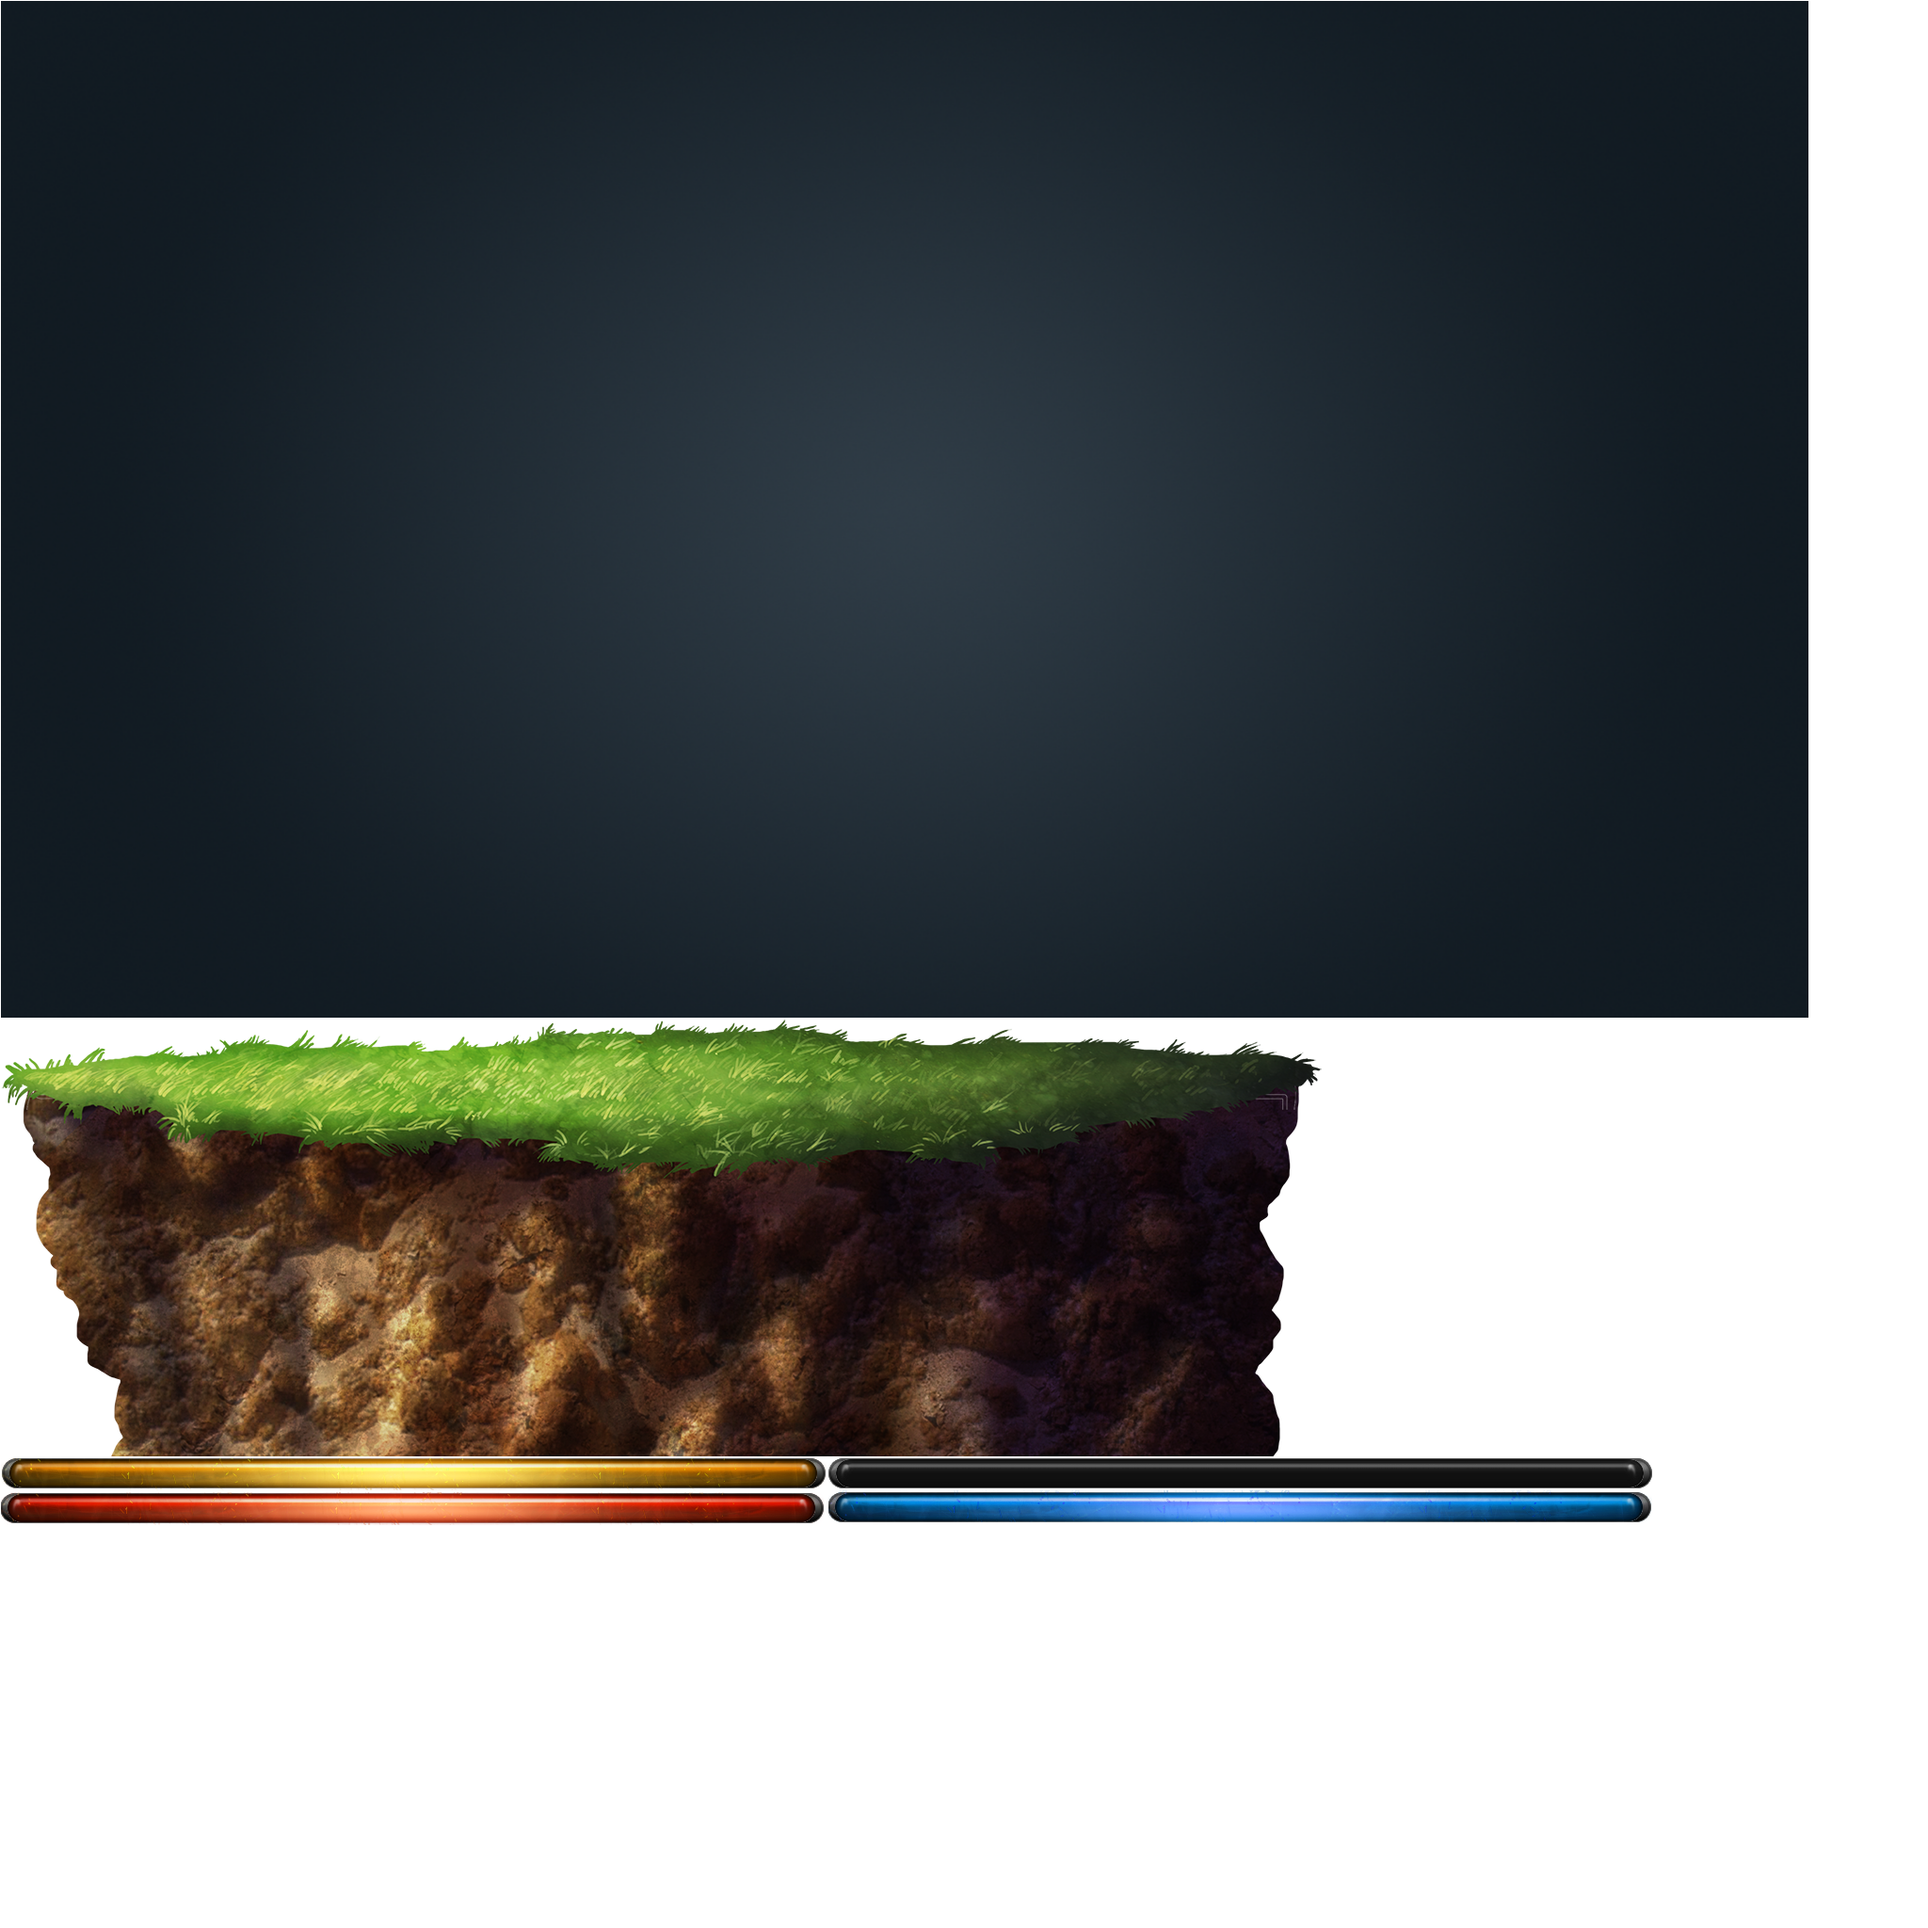
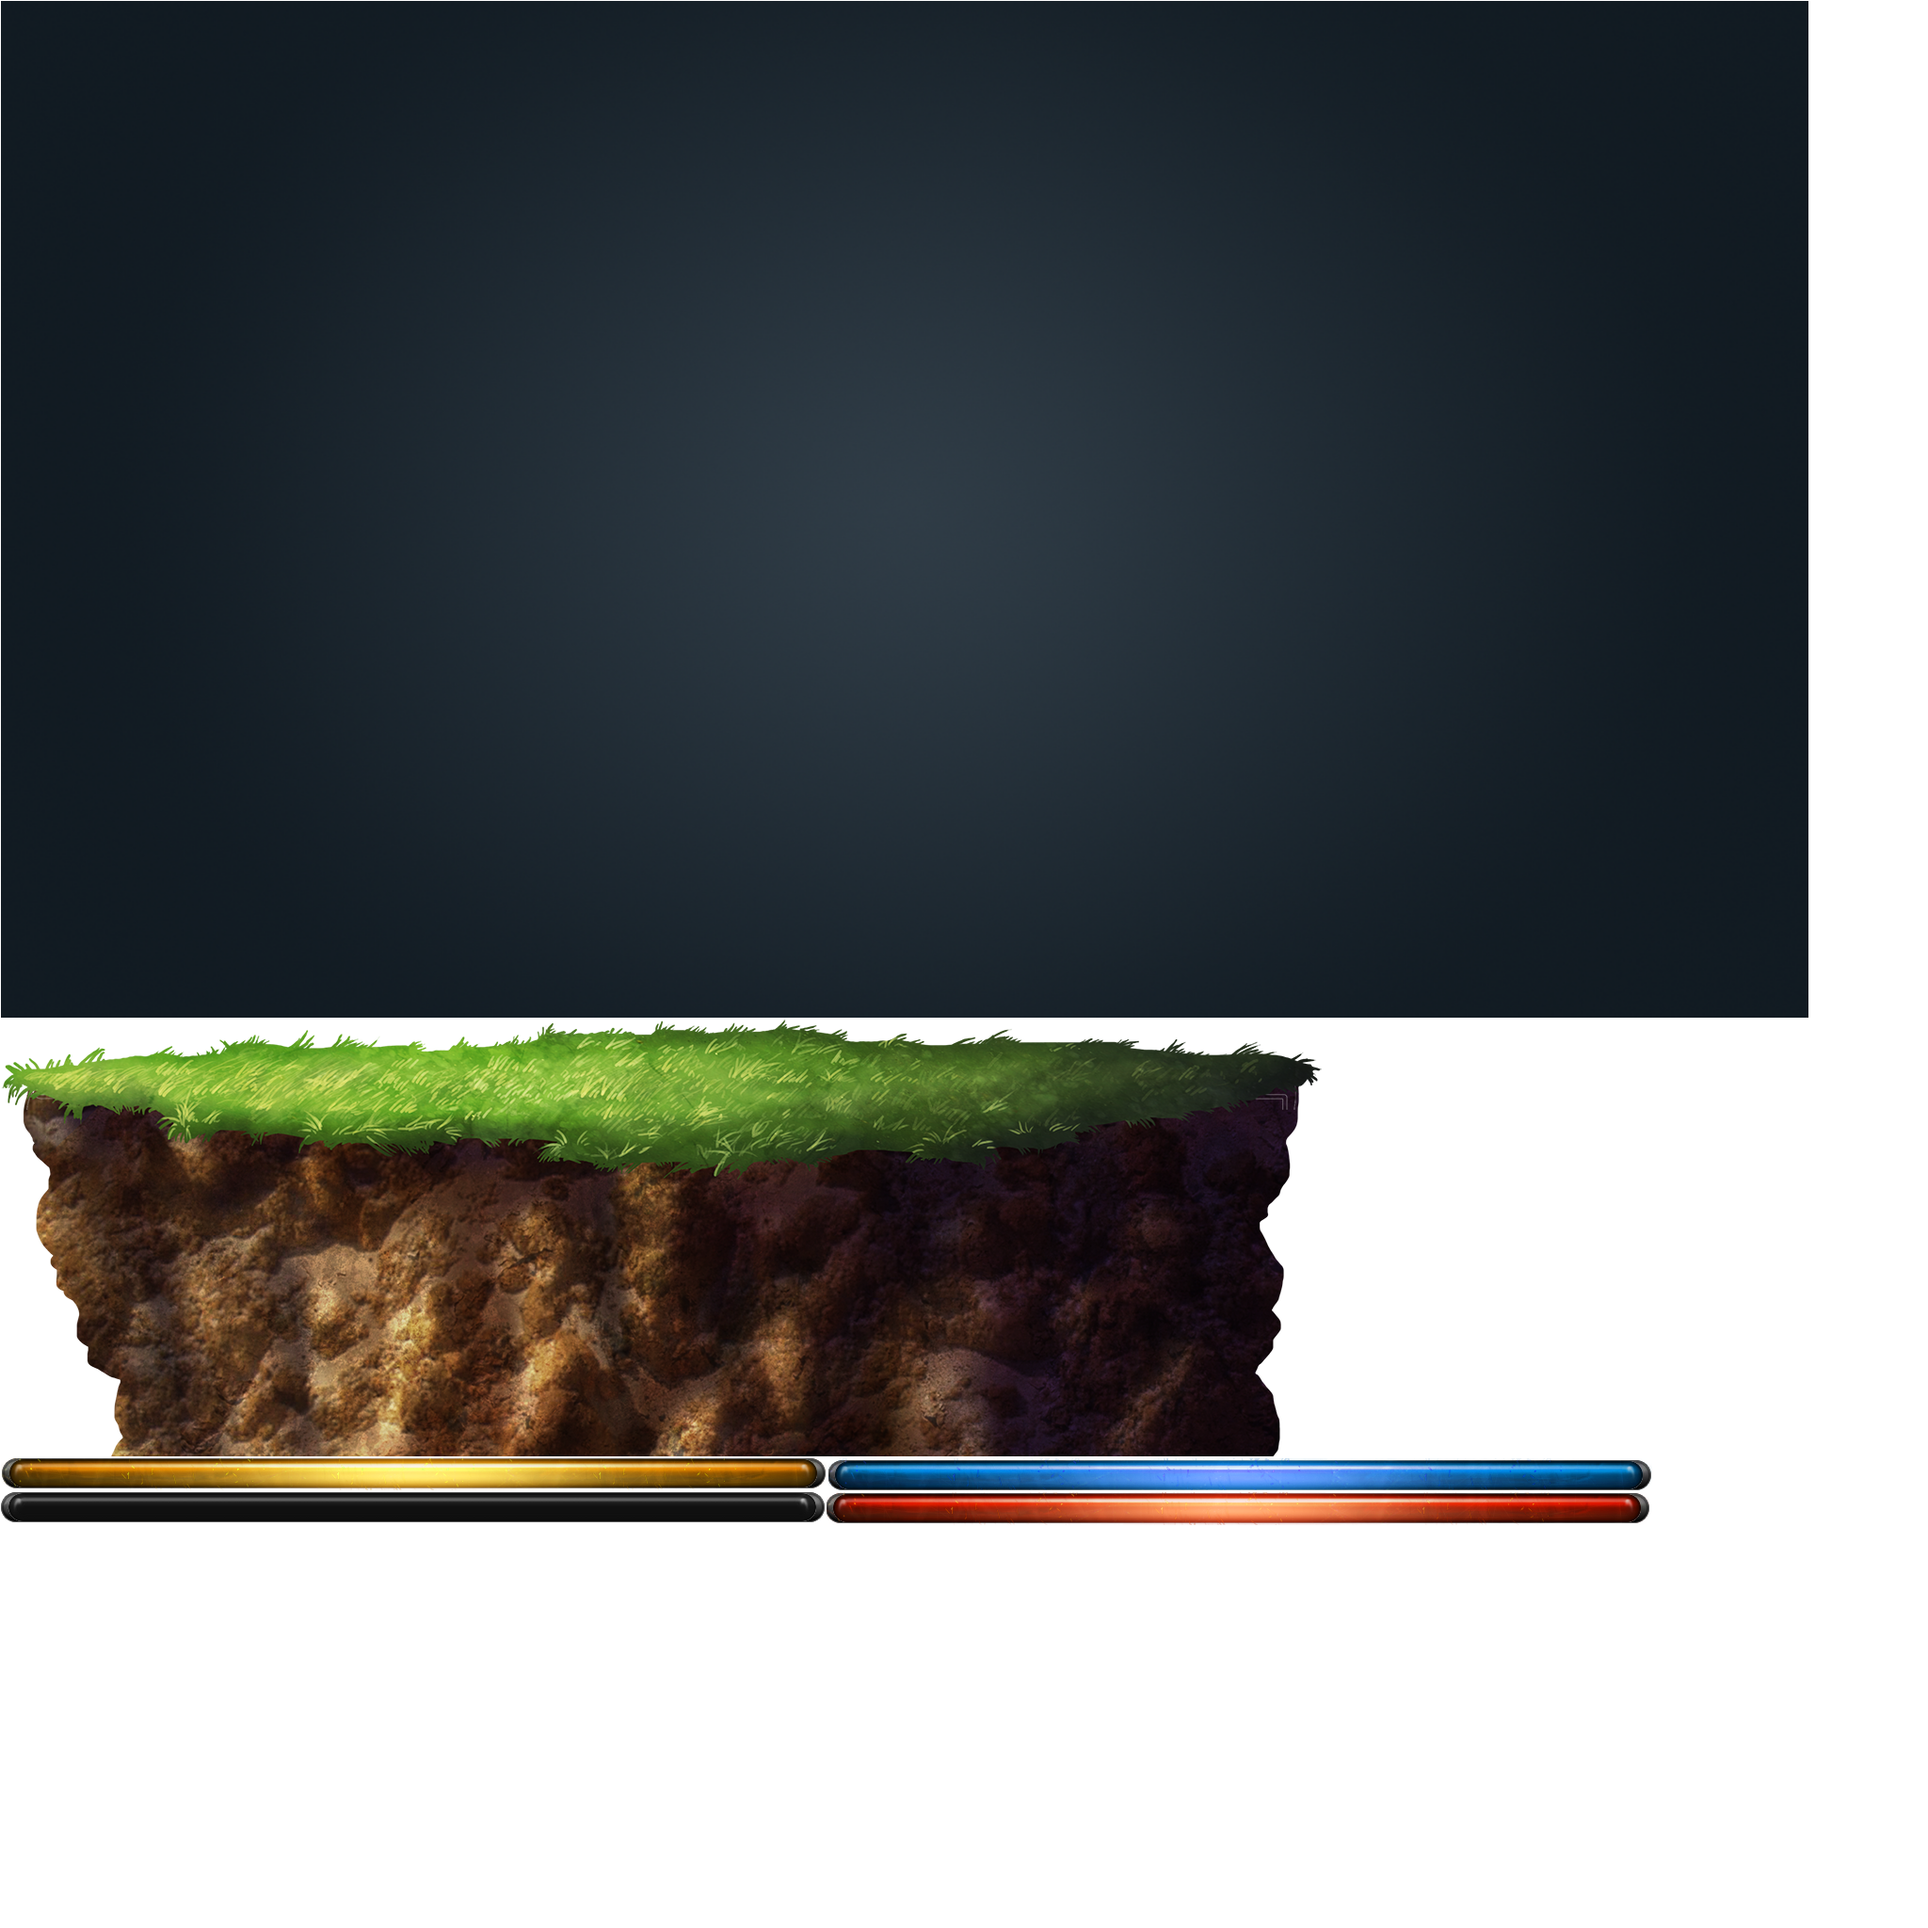
bag5

Changed region(s): [[0.0, 0.75, 0.875, 0.8125]]

diff --git a/Assets/Scripts/BagManage/MyBag.cs b/Assets/Scripts/BagManage/MyBag.cs
@@ -17,13 +17,23 @@ public class MyBag : MonoBehaviour
     private GComponent chooseEquation;
     private GTextField GoodsInfo;
     private GProgressBar ActProgress;
+    private GProgressBar energyprogress1;
+    private GProgressBar energyprogress2;
+    private GProgressBar energyprogress3;
     private float ActTime;
     private bool isAct;
     private EquationItem reactItem;
 
+
     private GButton button1;
     private GButton button2;
     private GButton button3;
+
+    public EnergyItem energy1;
+    public EnergyItem energy2;
+    public EnergyItem energy3;
+
+    private int propid;
 
 
     void Start()
@@ -47,6 +57,13 @@ public class MyBag : MonoBehaviour
         button1 = Bag.GetChild("button1").asButton;
         button2 = Bag.GetChild("button2").asButton;
         button3 = Bag.GetChild("button3").asButton;
+
+        energyprogress1 = Bag.GetChild("energyprogress1").asProgress;
+        energyprogress2 = Bag.GetChild("energyprogress2").asProgress;
+        energyprogress3 = Bag.GetChild("energyprogress3").asProgress;
+        energyprogress1.value = energy1.num;
+        energyprogress2.value = energy2.num;
+        energyprogress3.value = energy3.num;
         BagInitiate();
     }
 
@@ -79,7 +96,7 @@ public class MyBag : MonoBehaviour
             {
                 GComponent gComponent = equationItemList.AddItemFromPool().asCom;
                 gComponent.GetChild("id").asTextField.text = item.Equationid.ToString();
-                gComponent.GetChild("Equation").asLoader.url = UIPackage.GetItemURL("NewBagPackage", "reaction1");
+                gComponent.GetChild("Equation").asLoader.url = UIPackage.GetItemURL("NewBagPackage", "reaction"+item.Equationid);
                 gComponent.GetChild("FirstEnergy").asLoader.url = UIPackage.GetItemURL("NewBagPackage", "energy" + item.FirstEnergy);
                 gComponent.GetChild("SecondEnergy").asLoader.url = UIPackage.GetItemURL("NewBagPackage", "energy" + item.SecondEnergy);
                 gComponent.GetChild("information").asTextField.text = item.itemInfo;
@@ -99,12 +116,12 @@ public class MyBag : MonoBehaviour
             prop.url = UIPackage.GetItemURL("NewBagPackage", "prop1");
             mainEnergy.url = UIPackage.GetItemURL("NewBagPackage", "energy1");
         }
-        else if (button1.selected)
+        else if (button2.selected)
         {
             prop.url = UIPackage.GetItemURL("NewBagPackage", "prop2");
             mainEnergy.url = UIPackage.GetItemURL("NewBagPackage", "energy2");
         }
-        else if (button1.selected)
+        else if (button3.selected)
         {
             prop.url = UIPackage.GetItemURL("NewBagPackage", "prop3");
             mainEnergy.url = UIPackage.GetItemURL("NewBagPackage", "energy3");
@@ -113,7 +130,21 @@ public class MyBag : MonoBehaviour
         {
             prop.url = UIPackage.GetItemURL("NewBagPackage", "prop1");
             mainEnergy.url = UIPackage.GetItemURL("NewBagPackage", "energy1");
+            propid = 1;
             button1.selected = true;
+        }
+
+        if (myBag.propsItems[0].equation!=null)
+        {
+            EquationItem equation = myBag.propsItems[0].equation;
+            chooseEquation.GetChild("equation").asLoader.url = UIPackage.GetItemURL("NewBagPackage", "reaction" + equation.Equationid);
+            chooseEquation.GetChild("FirstEnergy").asLoader.url = UIPackage.GetItemURL("NewBagPackage", "energy" + equation.FirstEnergy);
+            chooseEquation.GetChild("SecondEnergy").asLoader.url = UIPackage.GetItemURL("NewBagPackage", "energy" + equation.SecondEnergy);
+            chooseEquation.GetChild("id").asTextField.text = equation.Equationid.ToString();
+            chooseEquation.GetChild("sign").asTextField.text = "";
+            string id = equation.Equationid.ToString();
+            chooseEquation.GetChild("actBtn").asButton.onTouchBegin.Add(() => { EquationActBegin(id); });
+            chooseEquation.GetChild("actBtn").asButton.onTouchEnd.Add(() => { EquationActEnd(id); });
         }
 
         button1.onClick.Add(() => { changeProp(1); });
@@ -128,18 +159,21 @@ public class MyBag : MonoBehaviour
             case 1:
                 prop.url = UIPackage.GetItemURL("NewBagPackage", "prop" + id);
                 mainEnergy.url = UIPackage.GetItemURL("NewBagPackage", "energy" + id);
+                propid = 1;
                 button2.selected = false;
                 button3.selected = false;
                 break;
             case 2:
                 prop.url = UIPackage.GetItemURL("NewBagPackage", "prop" + id);
                 mainEnergy.url = UIPackage.GetItemURL("NewBagPackage", "energy" + id);
+                propid = 2;
                 button1.selected = false;
                 button3.selected = false;
                 break;
             case 3:
                 prop.url = UIPackage.GetItemURL("NewBagPackage", "prop" + id);
                 mainEnergy.url = UIPackage.GetItemURL("NewBagPackage", "energy" + id);
+                propid = 3;
                 button1.selected = false;
                 button2.selected = false;
                 break;
@@ -171,6 +205,10 @@ public class MyBag : MonoBehaviour
         string id = chooseEquation.GetChild("id").asTextField.text;
         chooseEquation.GetChild("actBtn").asButton.onTouchBegin.Add(() => { EquationActBegin(id); });
         chooseEquation.GetChild("actBtn").asButton.onTouchEnd.Add(() => { EquationActEnd(id); });
+        foreach (var item in myBag.propsItems)
+        {
+            item.equation = myBag.equationList[int.Parse(id)-1];
+        }
     }
 
     private void EquationActBegin(string id)
@@ -210,7 +248,7 @@ public class MyBag : MonoBehaviour
             {
                 ActProgress.value = 0;
                 ActTime = 0;
-                BagManager.instance.Reaction(reactItem);
+                BagManager.instance.Reaction(reactItem,propid);
             }
         }
     }

diff --git a/Assets/Scripts/BagManage/BagManager.cs b/Assets/Scripts/BagManage/BagManager.cs
@@ -15,6 +15,12 @@ public class BagManager : MonoBehaviour
     private GComponent Bag;
     private GList goodsItemList;
     private GTextField GoodsInfo;
+    private GProgressBar energyprogress1;
+    private GProgressBar energyprogress2;
+    private GProgressBar energyprogress3;
+    public EnergyItem energy1;
+    public EnergyItem energy2;
+    public EnergyItem energy3;
 
 
 
@@ -45,9 +51,12 @@ public class BagManager : MonoBehaviour
         Bag = GBag.GetComponent<UIPanel>().ui;
         goodsItemList = Bag.GetChild("GoodsItemList").asList;
         GoodsInfo = Bag.GetChild("Information").asTextField;
+        energyprogress1 = Bag.GetChild("energyprogress1").asProgress;
+        energyprogress2 = Bag.GetChild("energyprogress2").asProgress;
+        energyprogress3 = Bag.GetChild("energyprogress3").asProgress;
     }
 
-    public void Reaction(EquationItem item)
+    public void Reaction(EquationItem item,int propid)
     {
         List<int> Energy = item.Energy;
         List<GoodsItem> goods = item.goods;
@@ -76,11 +85,56 @@ public class BagManager : MonoBehaviour
                     products[i].itemHeld = productnum[i];
                 }
             }
-        }
+
+            for (int i = 0; i < Energy.Count; i++)
+            {
+                if (Energy[i] == propid)
+                {
+                    if (i == 0)
+                    {
+                        addEnergy(propid, 10);
+
+                    }
+                    if (i == 1)
+                    {
+                        addEnergy(propid, 5);
+                    }
+                }
+            }
+        }  
         UpdateBag();
         //Debug.Log(Energy[0] + Energy[1]);
     }
 
+    private void addEnergy(int propid,int num)
+    {
+        switch (propid)
+        {
+            case 1:
+                energy1.num += num;
+                if (energy1.num>=100)
+                {
+                    energy1.num = 100;
+                }
+                break;
+            case 2:
+                energy2.num += num;
+                if (energy2.num >= 100)
+                {
+                    energy2.num = 100;
+                }
+                break;
+            case 3:
+                energy3.num += num;
+                if (energy3.num >= 100)
+                {
+                    energy3.num = 100;
+                }
+                break;
+            default:
+                break;
+        }
+    }
     public bool checkGoods(List<GoodsItem> goods, List<int> goodsnum)
     {
         for (int i = 0; i < goods.Count; i++)
@@ -114,6 +168,9 @@ public class BagManager : MonoBehaviour
             GButton gButton = goodsItemList.AddItemFromPool().asButton;
             gButton.GetChild("number").asTextField.text = "";
         }
+        energyprogress1.TweenValue(energy1.num, 0.1f);
+        energyprogress2.TweenValue(energy2.num, 0.1f);
+        energyprogress3.TweenValue(energy3.num, 0.1f);
     }
 
     private void ClickItem(GButton button)

diff --git a/Assets/Scripts/BagManage/Bag.cs b/Assets/Scripts/BagManage/Bag.cs
@@ -7,4 +7,6 @@ public class Bag : ScriptableObject
 {
     public List<GoodsItem> itemList = new List<GoodsItem>();
     public List<EquationItem> equationList = new List<EquationItem>();
+    public List<EnergyItem> energyItems = new List<EnergyItem>();
+    public List<Prop> propsItems = new List<Prop>();
 }
